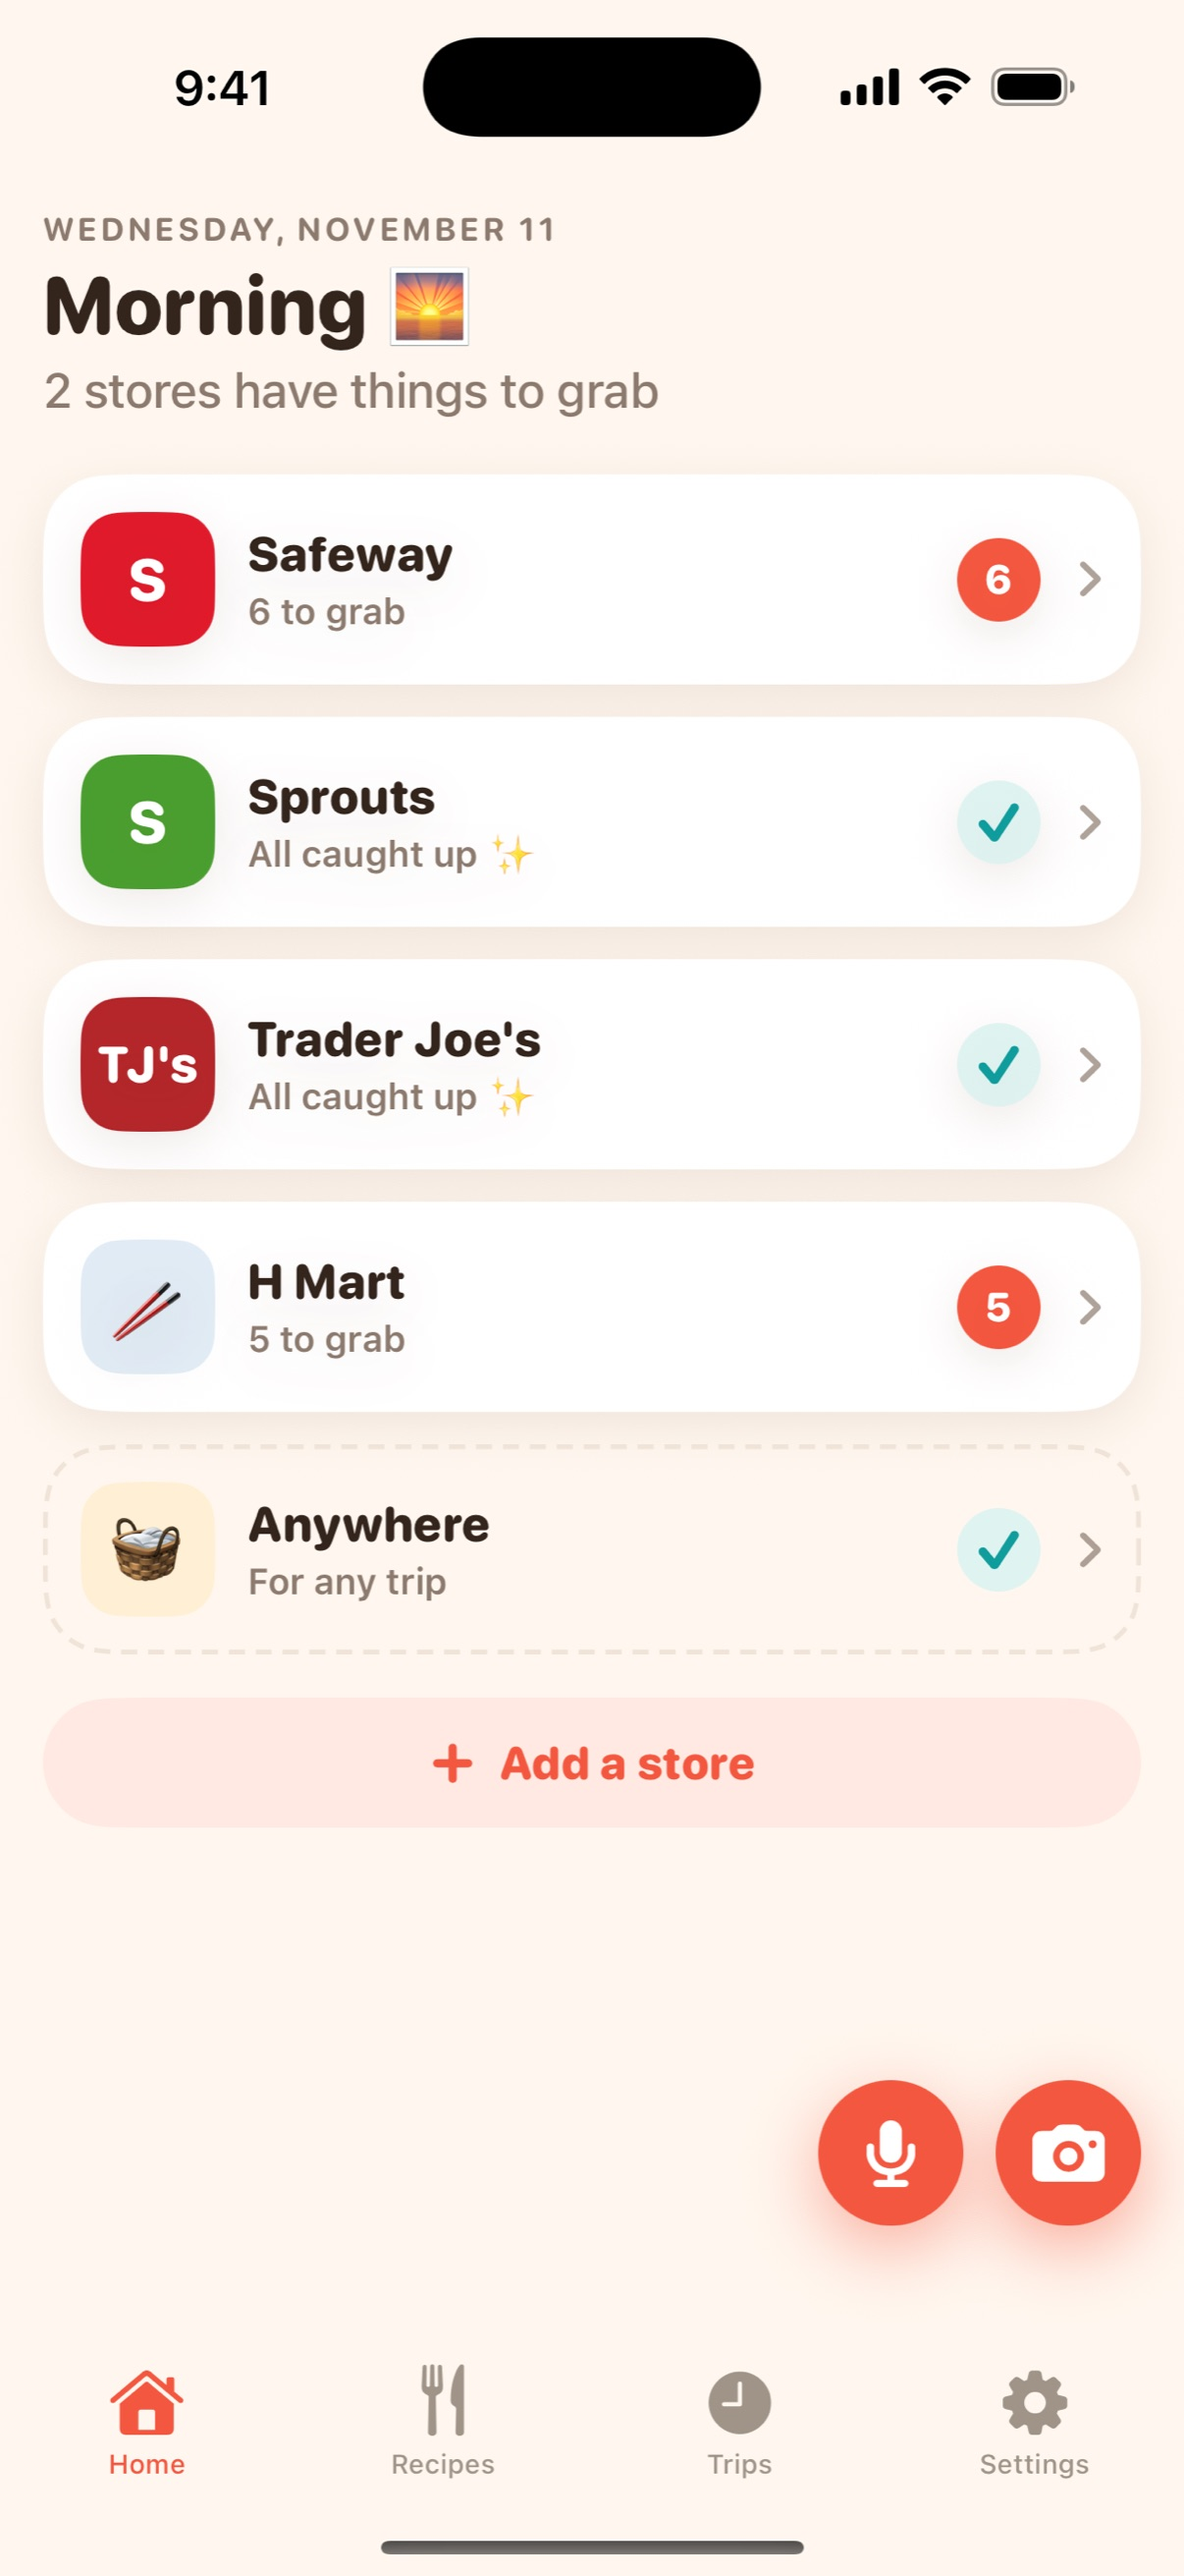
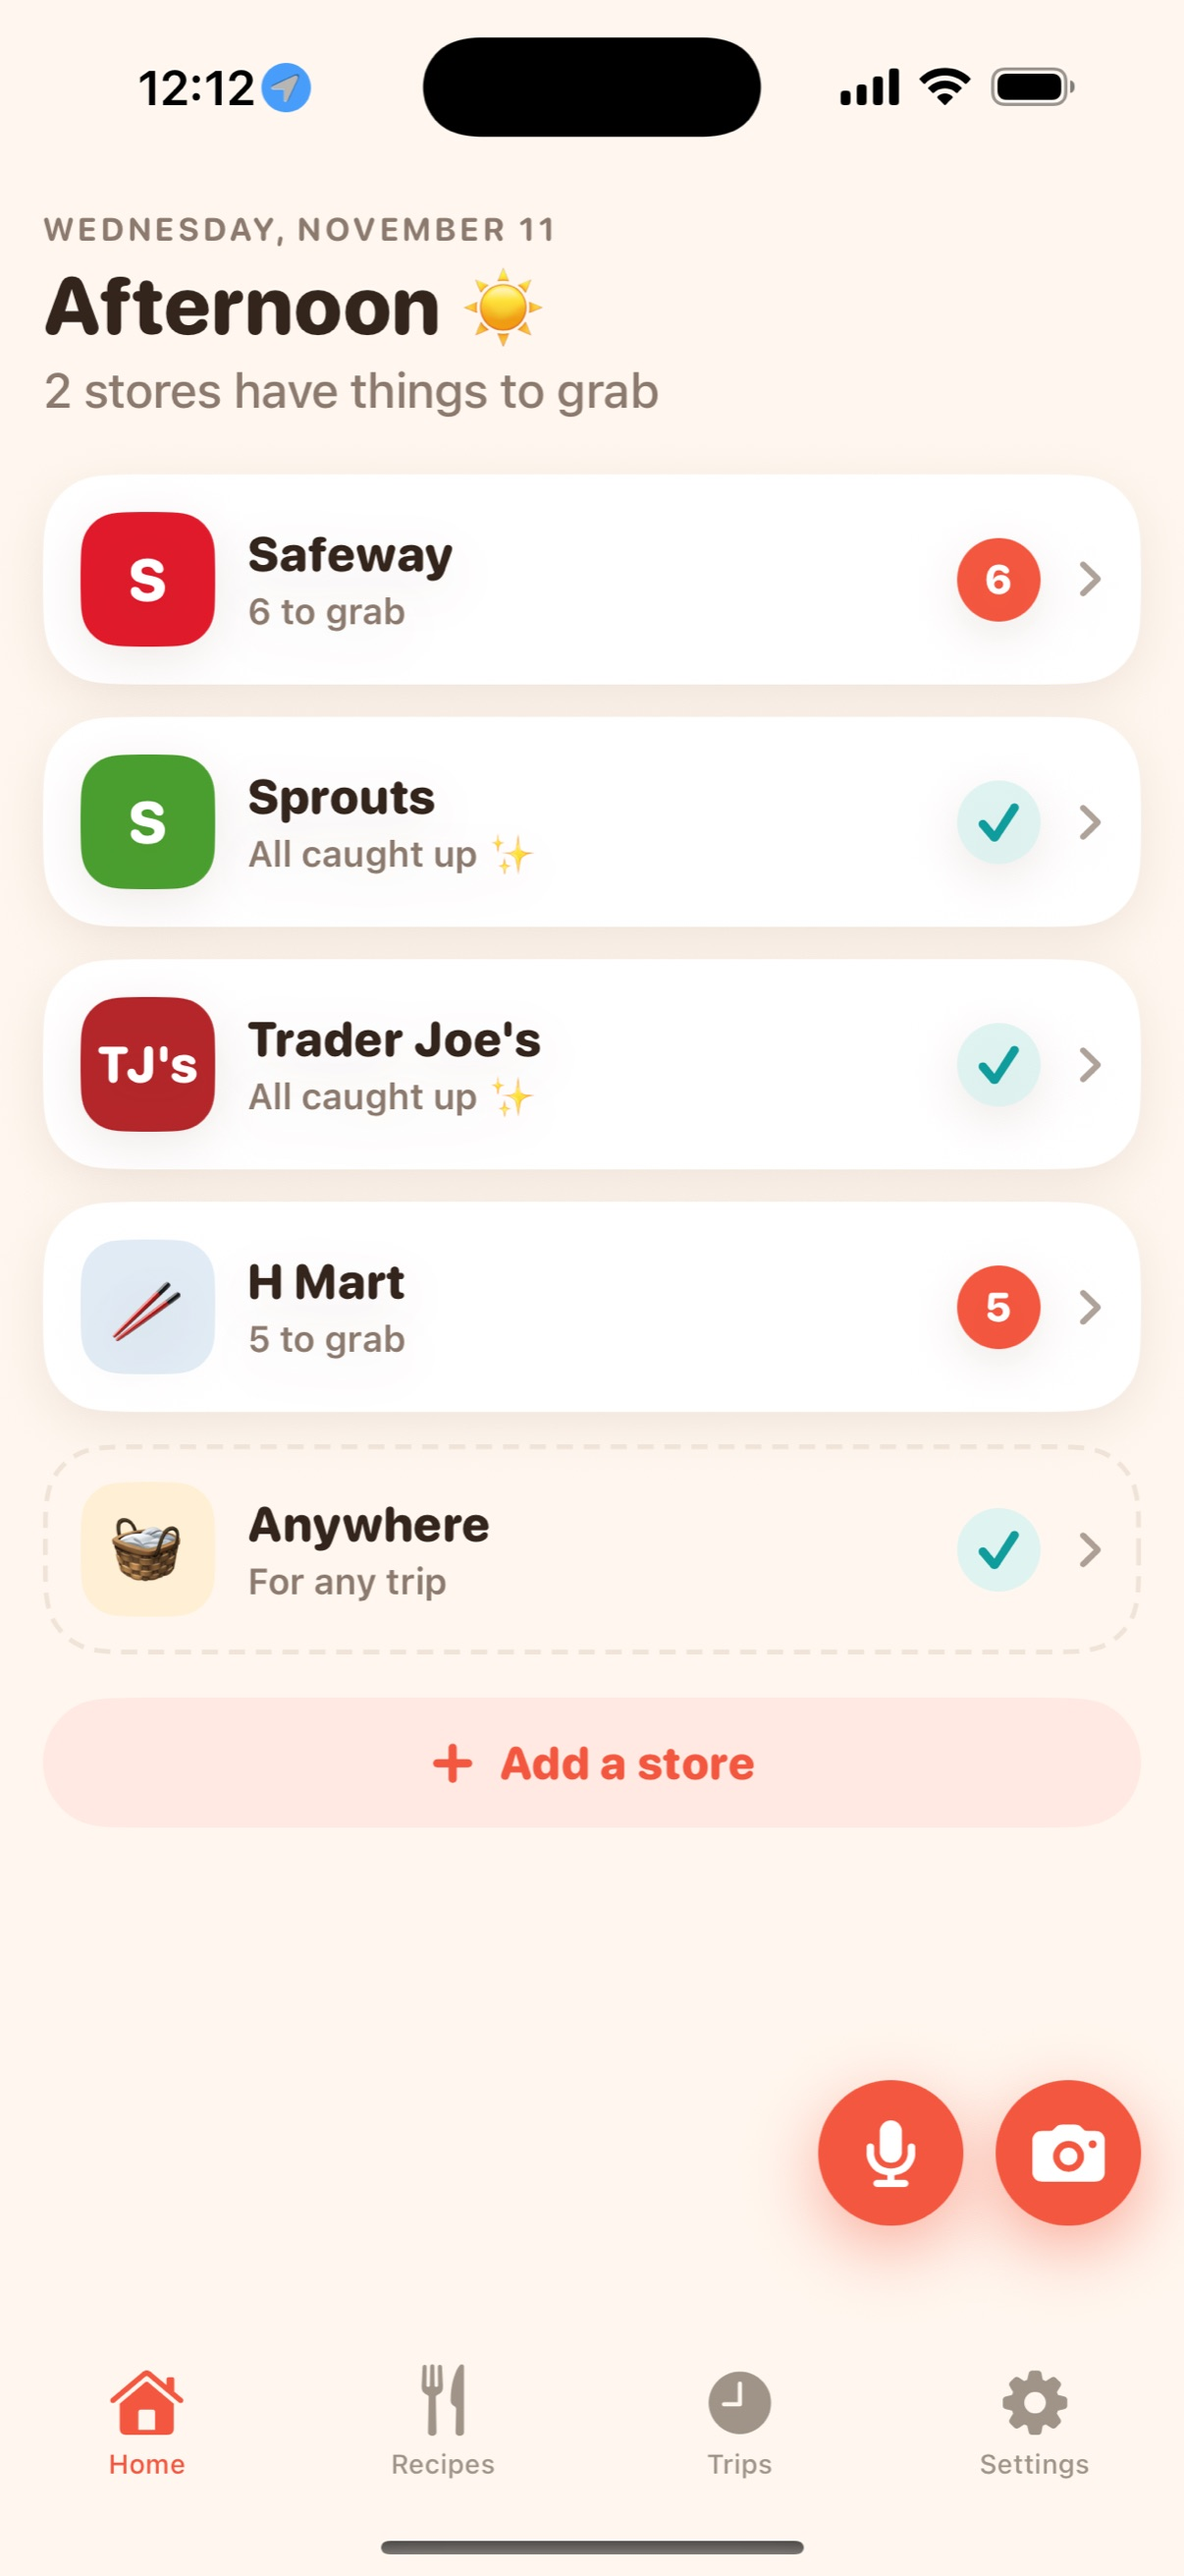
Reorder iOS apps and lead WhatToGet with its store-aware home
Order is now BobaHub, WhatToGet, Moodie Diary, FastOrdr, ClockRacer.
WhatToGet's lead image is the home screen (a list per store with what's
left to grab) instead of a recipe, followed by a real arrival
notification from a simulated drive to Safeway, the store list, in-store
mode, the AI scan, and recipes.

Changed region(s): [[0.0307, 0.0927, 0.4602, 0.1545], [0.1227, 0.0, 0.2761, 0.0618]]

diff --git a/website/src/data/projects.ts b/website/src/data/projects.ts
@@ -127,47 +127,18 @@ export const projects: Project[] = [
       { label: 'Join the TestFlight beta', url: 'https://testflight.apple.com/join/Q6zRcdCG', kind: 'testflight' },
     ],
     heroMode: 'phone',
-    screenshot: '/screenshots/whattoget-ios-recipe.jpg',
-    screenshotAlt: 'WhatToGet iPhone app recipe page for broccoli beef stir-fry with ingredients matched to stores',
+    screenshot: '/screenshots/whattoget-ios-home.jpg',
+    screenshotAlt: 'WhatToGet iPhone home: a list for each store, with how many things to grab at each',
     gallery: [
-      { src: '/screenshots/whattoget-ios-home.jpg', alt: 'WhatToGet iPhone home with a list per store and how many things to grab at each', label: 'A list per store', mode: 'portrait', section: 'iPhone app' },
-      { src: '/screenshots/whattoget-ios-scan.jpg', alt: 'WhatToGet iPhone review screen after scanning a photo: six items found, ready to add', label: 'AI photo scan', mode: 'portrait', section: 'iPhone app' },
-      { src: '/screenshots/whattoget-ios-recipes.jpg', alt: 'WhatToGet iPhone recipe browser with popular dishes', label: 'Recipes', mode: 'portrait', section: 'iPhone app' },
+      { src: '/screenshots/whattoget-ios-arrival.jpg', alt: 'Arrival notification: You are near Safeway, 6 things to grab', label: 'Nudged near the store', mode: 'portrait', section: 'iPhone app' },
+      { src: '/screenshots/whattoget-ios-list.jpg', alt: 'The Safeway list grouped by aisle, with two items already in the cart', label: 'A list per store', mode: 'portrait', section: 'iPhone app' },
+      { src: '/screenshots/whattoget-ios-instore.jpg', alt: 'In-store mode after arriving: big checkboxes and 2 of 8 in the cart', label: 'In the store', mode: 'portrait', section: 'iPhone app' },
+      { src: '/screenshots/whattoget-ios-scan.jpg', alt: 'Review screen after scanning a handwritten grocery note: six items found with quantities', label: 'AI photo scan', mode: 'portrait', section: 'iPhone app' },
+      { src: '/screenshots/whattoget-ios-recipe.jpg', alt: 'A recipe with each ingredient matched to the store that carries it', label: 'Recipe → store lists', mode: 'portrait', section: 'iPhone app' },
+      { src: '/screenshots/whattoget-ios-recipes.jpg', alt: 'Recipe browser with popular dishes and quick filters', label: 'Recipes', mode: 'portrait', section: 'iPhone app' },
       { src: '/screenshots/whattoget-android-home.png', alt: 'WhatToGet Android home with stores and a prompt to turn on reminders', label: 'Home', mode: 'portrait', section: 'Android app' },
       { src: '/screenshots/whattoget-android-instore.png', alt: 'WhatToGet Android in-store mode with big checkboxes', label: 'In the store', mode: 'portrait', section: 'Android app' },
       { src: '/screenshots/whattoget-android-shop.png', alt: 'WhatToGet Android adding a recipe’s ingredients to a store list', label: 'Recipe → list', mode: 'portrait', section: 'Android app' },
-    ],
-  },
-  {
-    slug: 'clockracer',
-    category: 'ios',
-    name: 'ClockRacer',
-    tagline: 'A game that teaches kids to read an analog clock, against the clock.',
-    status: { label: 'Live on the web · iPhone in TestFlight', tone: 'live' },
-    platforms: [
-      { name: 'Web', state: 'Live', tone: 'live' },
-      { name: 'iPhone', state: 'TestFlight beta', tone: 'beta' },
-    ],
-    description:
-      `ClockRacer turns reading an analog clock into a fast, replayable game: see the clock, type the time, beat your best. It is live on the web at clockracer.com, and the native iPhone app is in TestFlight with outside testers. Leaderboards, achievements, and progress carry over whether you play as a guest or sign in.`,
-    tags: ['Education', 'Game', 'SwiftUI'],
-    strengths: [
-      'Read the clock, type the time, race the timer — six levels, from 5-minute times up to a calendar clock',
-      'A native SwiftUI iPhone app alongside the React web game, with shared accounts and leaderboards',
-      'Leaderboards, achievements, and progress for both guests and signed-in players',
-      'Live at clockracer.com; the iPhone app is in TestFlight with outside testers',
-    ],
-    links: [
-      { label: 'Play on the web', url: 'https://clockracer.com', kind: 'web' },
-    ],
-    urlLabel: 'clockracer.com',
-    screenshot: '/screenshots/clockracer-home.png',
-    screenshotAlt: 'ClockRacer level select with all six levels unlocked and best times',
-    gallery: [
-      { src: '/screenshots/clockracer-ios-play.png', alt: 'ClockRacer iOS app — read the basic clock', label: 'Beginner clock', mode: 'portrait', section: 'iPhone app' },
-      { src: '/screenshots/clockracer-ios-advanced.png', alt: 'ClockRacer iOS app — advanced clock with hour, minute, second, date and month hands', label: 'Advanced level', mode: 'portrait', section: 'iPhone app' },
-      { src: '/screenshots/clockracer-play.png', alt: 'ClockRacer on the web — read the clock and type the time', label: 'Level 1 · read the clock', section: 'On the web' },
-      { src: '/screenshots/clockracer-advanced.png', alt: 'ClockRacer on the web — Calendar Clock level with month, date, hour and minute hands', label: 'Level 5 · Calendar Clock', section: 'On the web' },
     ],
   },
   {
@@ -237,6 +208,38 @@ export const projects: Project[] = [
       { src: '/screenshots/fastordr-plans.png', alt: 'Three pricing plans with a worked example of what is taken out of $10,000', label: 'What it costs', mode: 'wide', section: 'The numbers' },
       { src: '/screenshots/fastordr-chart.png', alt: 'Chart of total monthly cost per plan as online sales grow, card processing included', label: 'Cost as you grow', mode: 'wide', section: 'The numbers' },
       { src: '/screenshots/fastordr-hardware.png', alt: 'Hardware list: iPad and stand, Brother label printer and Star receipt printer, about $520 one time', label: 'Hardware', mode: 'wide', section: 'The numbers' },
+    ],
+  },
+  {
+    slug: 'clockracer',
+    category: 'ios',
+    name: 'ClockRacer',
+    tagline: 'A game that teaches kids to read an analog clock, against the clock.',
+    status: { label: 'Live on the web · iPhone in TestFlight', tone: 'live' },
+    platforms: [
+      { name: 'Web', state: 'Live', tone: 'live' },
+      { name: 'iPhone', state: 'TestFlight beta', tone: 'beta' },
+    ],
+    description:
+      `ClockRacer turns reading an analog clock into a fast, replayable game: see the clock, type the time, beat your best. It is live on the web at clockracer.com, and the native iPhone app is in TestFlight with outside testers. Leaderboards, achievements, and progress carry over whether you play as a guest or sign in.`,
+    tags: ['Education', 'Game', 'SwiftUI'],
+    strengths: [
+      'Read the clock, type the time, race the timer — six levels, from 5-minute times up to a calendar clock',
+      'A native SwiftUI iPhone app alongside the React web game, with shared accounts and leaderboards',
+      'Leaderboards, achievements, and progress for both guests and signed-in players',
+      'Live at clockracer.com; the iPhone app is in TestFlight with outside testers',
+    ],
+    links: [
+      { label: 'Play on the web', url: 'https://clockracer.com', kind: 'web' },
+    ],
+    urlLabel: 'clockracer.com',
+    screenshot: '/screenshots/clockracer-home.png',
+    screenshotAlt: 'ClockRacer level select with all six levels unlocked and best times',
+    gallery: [
+      { src: '/screenshots/clockracer-ios-play.png', alt: 'ClockRacer iOS app — read the basic clock', label: 'Beginner clock', mode: 'portrait', section: 'iPhone app' },
+      { src: '/screenshots/clockracer-ios-advanced.png', alt: 'ClockRacer iOS app — advanced clock with hour, minute, second, date and month hands', label: 'Advanced level', mode: 'portrait', section: 'iPhone app' },
+      { src: '/screenshots/clockracer-play.png', alt: 'ClockRacer on the web — read the clock and type the time', label: 'Level 1 · read the clock', section: 'On the web' },
+      { src: '/screenshots/clockracer-advanced.png', alt: 'ClockRacer on the web — Calendar Clock level with month, date, hour and minute hands', label: 'Level 5 · Calendar Clock', section: 'On the web' },
     ],
   },
 
